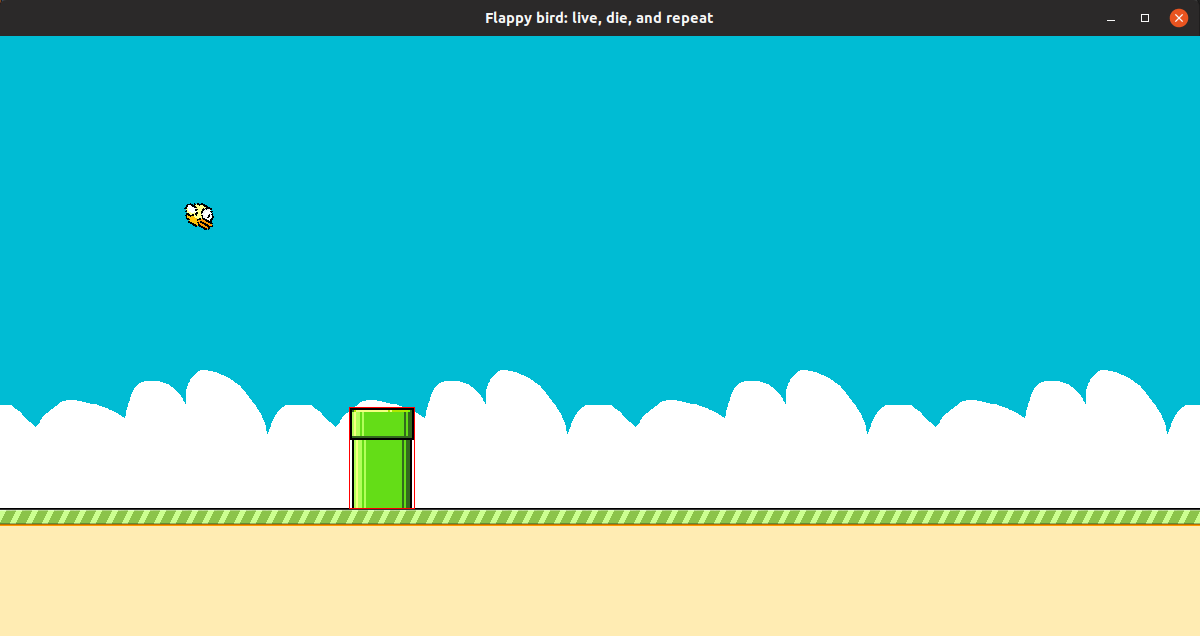
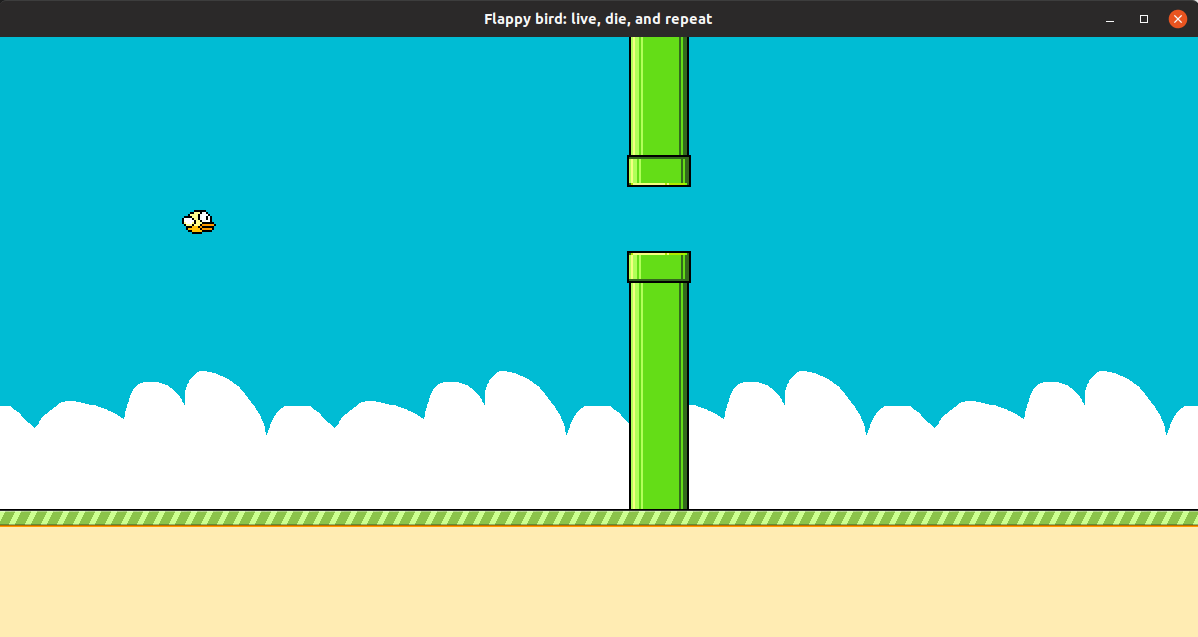
Update cover

diff --git a/include/Pipe.h b/include/Pipe.h
@@ -26,7 +26,7 @@ class PipePair : public Renderable {
   private:
     Pipe topPipe, bottomPipe;
     float gapY, gapHeight;
-    bool debug = true;
+    bool debug = false;
 
   public:
     PipePair(sf::FloatRect rect, float gapY, float gapHeight, const sf::Texture &headTexture, const sf::Texture &bodyTexture,
